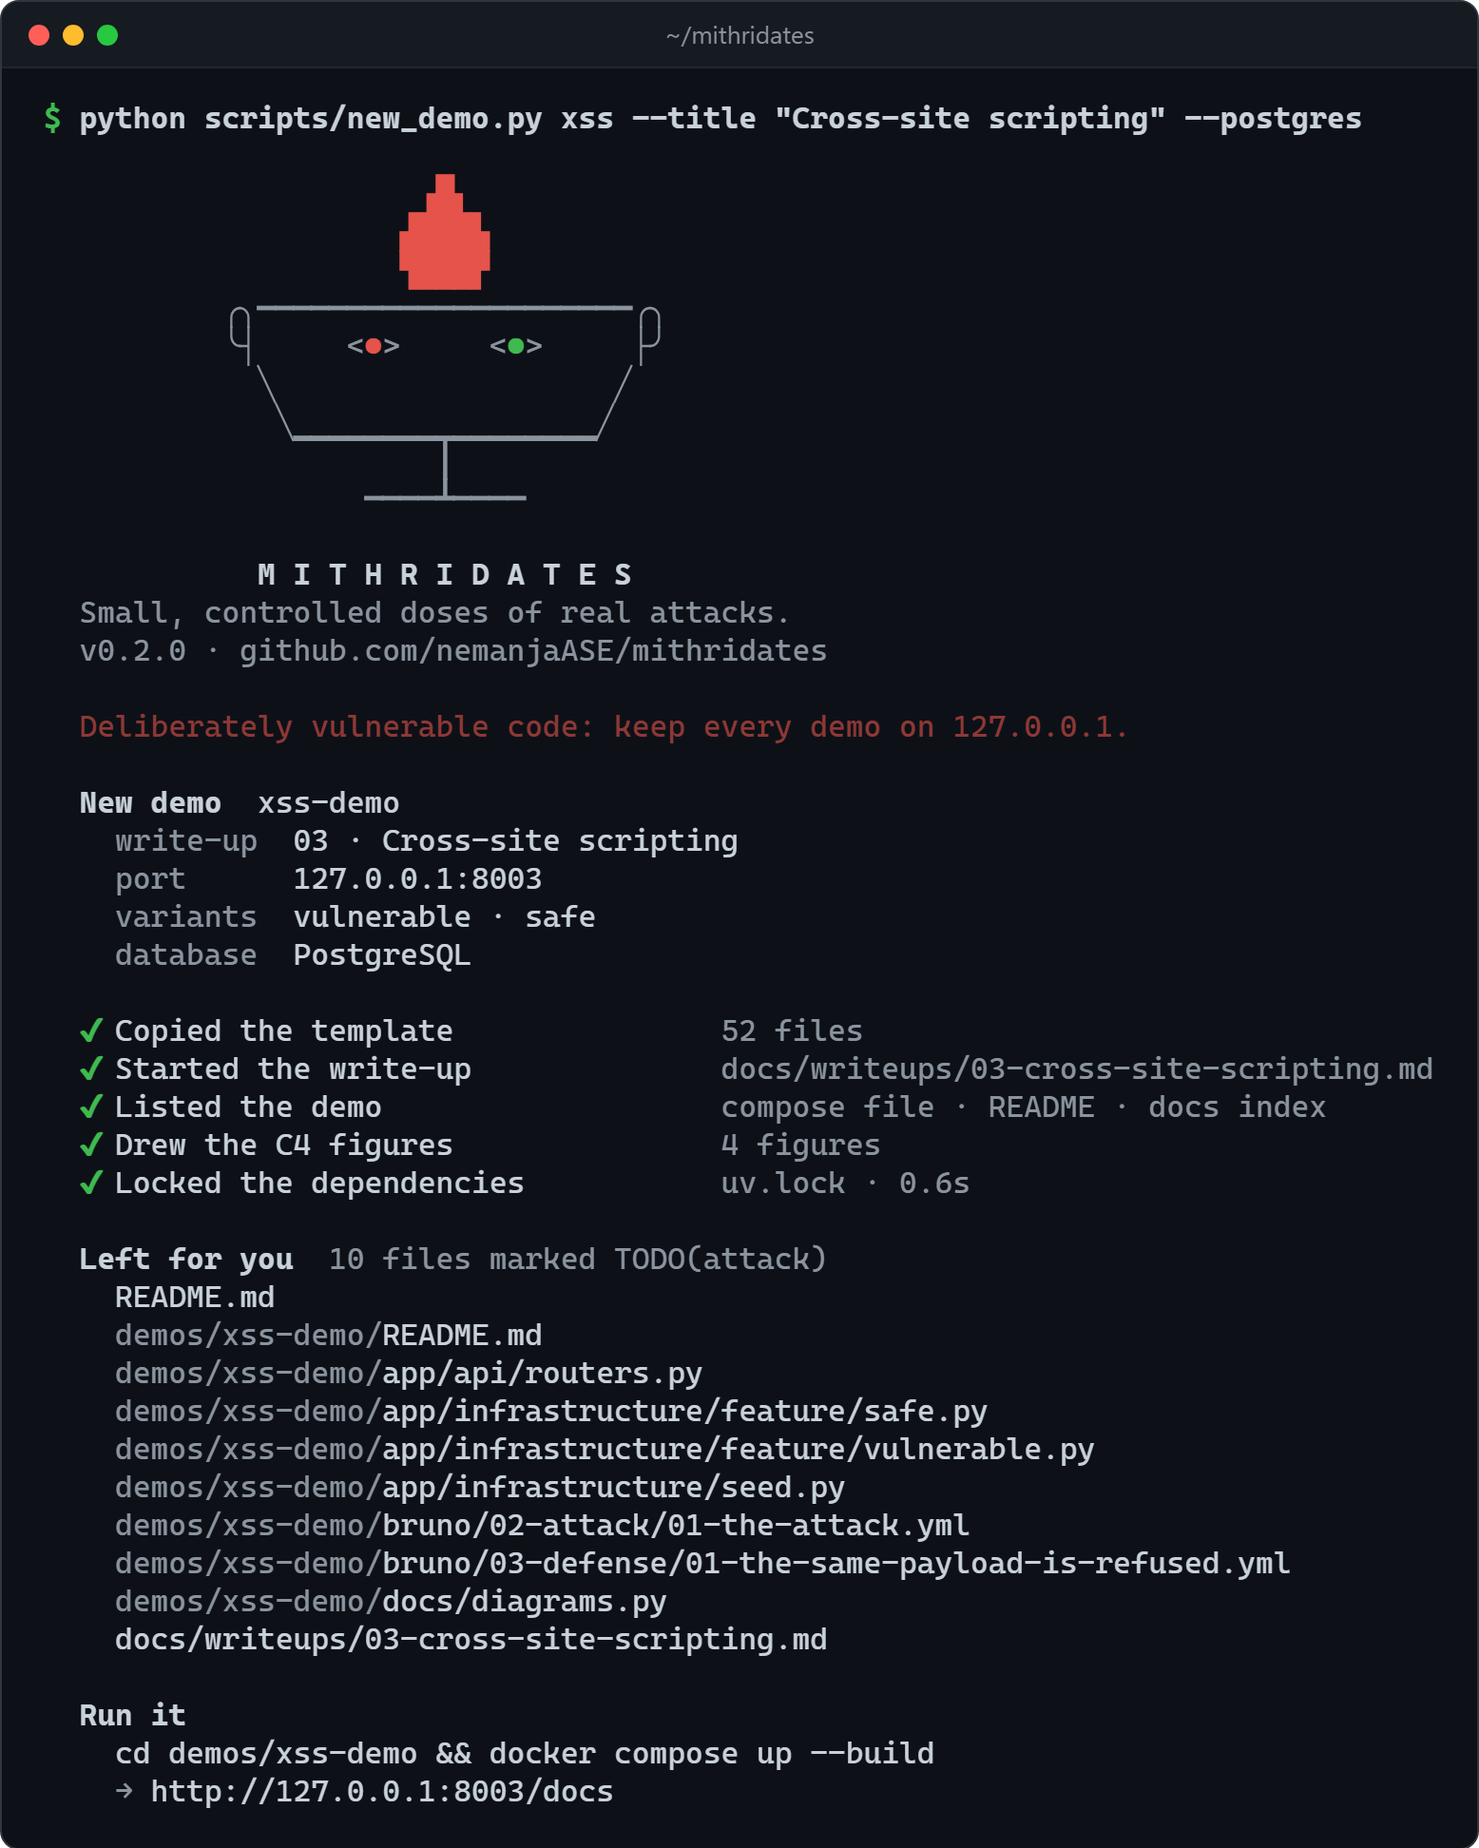
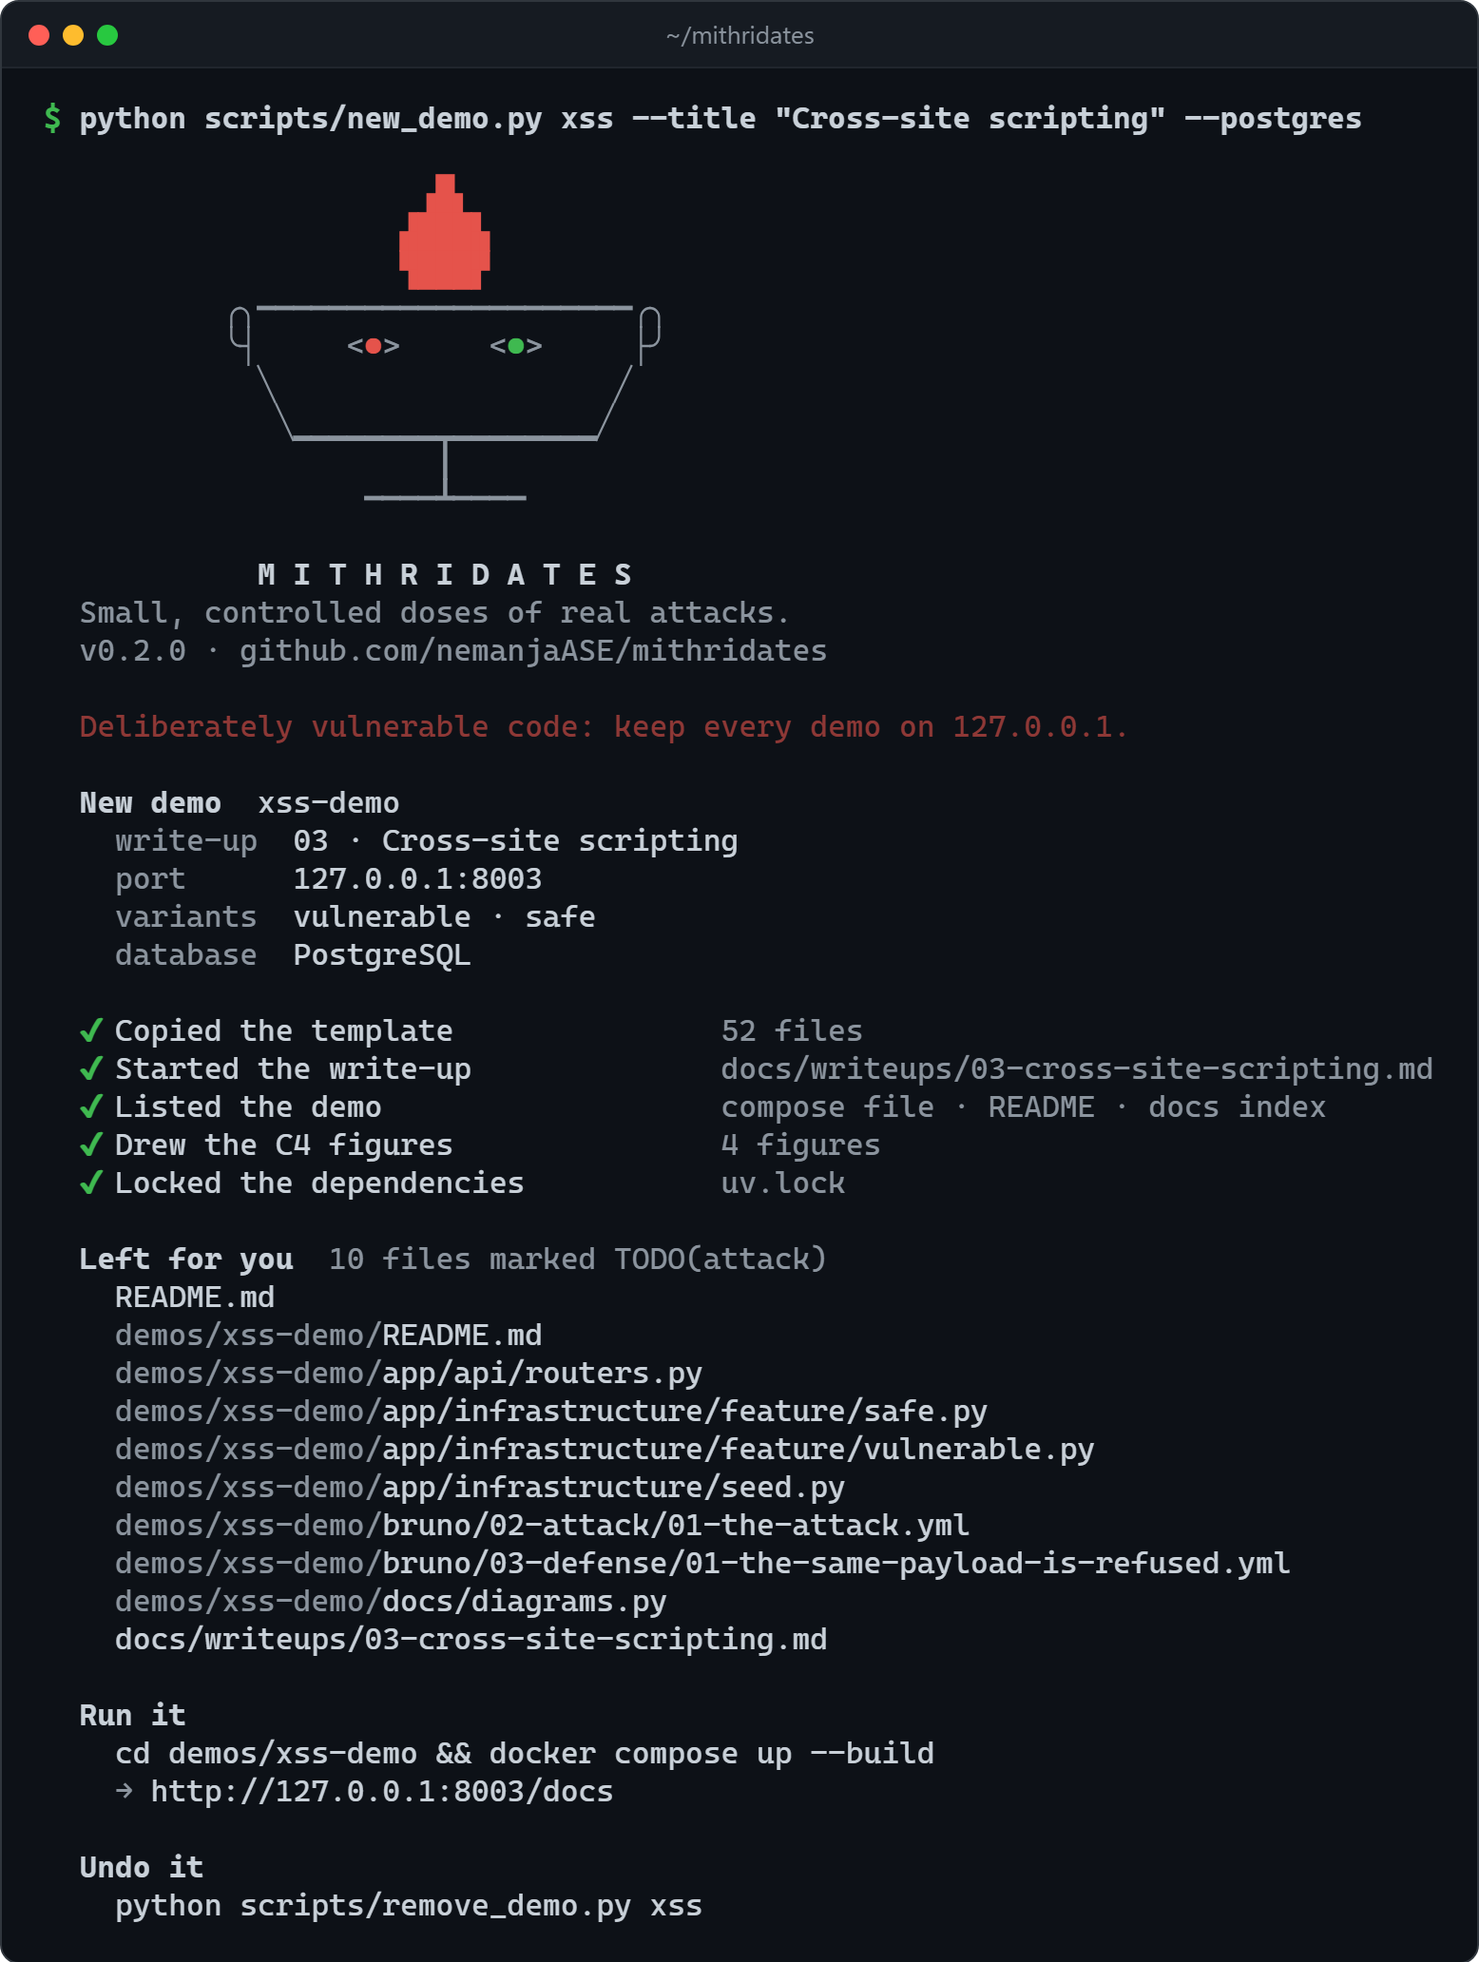
ci(scripts): add remove_demo.py to undo the demo generator
scripts/remove_demo.py <topic> is the inverse of new_demo.py: it deletes
the demo's folder and write-up and takes the demo out of
docker-compose.yml, README.md and docs/README.md, working out the
README's next-demo row and badge again with the generator's own
functions. It lists what it will remove and asks first; --yes skips the
question.

new_demo.py ends its output with the command that undoes it, and the
Demo generator job removes the demos it generated and fails unless the
checkout is left as it was.

diff --git a/scripts/remove_demo.py b/scripts/remove_demo.py
@@ -1,0 +1,193 @@
+"""Undo scripts/new_demo.py: remove a demo, its write-up and the rows that list it.
+
+    python scripts/remove_demo.py <topic> [--yes]
+
+Deletes `demos/<topic>-demo/` and the demo's write-up in `docs/writeups/`, and takes the
+demo out of `docker-compose.yml`, `README.md` and `docs/README.md`. The README's
+*your demo* row and demo badge are worked out again from the demos that are left, the way
+the generator works them out, so after a trial run every file is back as it was before
+`new_demo.py` ran.
+
+It lists what it will remove and asks first; `--yes` removes without asking. A file git
+has no committed copy of cannot be brought back, and the list says how many there are.
+
+Docker is not touched: if the demo was started, `python scripts/lab.py clean` stops it and
+removes its image once its folder is gone.
+"""
+from __future__ import annotations
+
+import argparse
+import re
+import shutil
+import sys
+from collections.abc import Callable
+from pathlib import Path
+
+from lab import git, plural
+from new_demo import ROOT, TOPIC, YOUR_DEMO_ROW, count_demos, next_number, next_port, your_demo_row
+from terminal import GREEN, YELLOW, Terminal
+
+COMPOSE = ROOT / "docker-compose.yml"
+README = ROOT / "README.md"
+INDEX = ROOT / "docs" / "README.md"
+WRITEUPS = ROOT / "docs" / "writeups"
+# The write-up as docs/README.md links it, and as the line the demo template's README links it on.
+INDEXED = re.compile(r"\(writeups/(\d\d-[a-z0-9-]+\.md)\)")
+STORY = re.compile(r"full story of the attack:.*?docs/writeups/(\d\d-[a-z0-9-]+\.md)")
+
+
+def rel(path: Path) -> str:
+    return path.relative_to(ROOT).as_posix()
+
+
+def listings(name: str) -> dict[Path, Callable[[str], bool]]:
+    """The files new_demo.py lists a demo in, each with a test for the line that lists it."""
+    return {
+        COMPOSE: lambda line: line.strip() == f"- demos/{name}/compose.yaml",
+        README: lambda line: line.startswith("| ") and f"](demos/{name}/README.md)" in line,
+        INDEX: lambda line: line.startswith("| [") and f"`demos/{name}/`" in line,
+    }
+
+
+def listed_in(name: str) -> list[Path]:
+    """The files that still list the demo."""
+    return [path for path, lists in listings(name).items()
+            if any(lists(line) for line in path.read_text(encoding="utf-8").splitlines())]
+
+
+def find_writeup(name: str) -> Path | None:
+    """The demo's write-up: the one its row in docs/README.md links, or else its README."""
+    rows = [line for line in INDEX.read_text(encoding="utf-8").splitlines()
+            if listings(name)[INDEX](line)]
+    readme = ROOT / "demos" / name / "README.md"
+    story = readme.read_text(encoding="utf-8") if readme.exists() else ""
+    names = [m.group(1) for row in rows for m in INDEXED.finditer(row)]
+    names += [m.group(1) for m in STORY.finditer(story)]
+    return next((WRITEUPS / n for n in names if (WRITEUPS / n).is_file()), None)
+
+
+def count_files(path: Path) -> tuple[int, int | None]:
+    """How many files `path` holds, and how many of them git has no committed copy of.
+
+    Files git ignores, such as a virtual environment, are not counted. Without git every
+    file is counted, and the second number is None.
+    """
+    tracked = git("ls-files", "--cached", "--others", "--exclude-standard", "--", rel(path))
+    changed = git("status", "--porcelain", "--untracked-files=all", "--", rel(path))
+    if tracked is None or changed is None:
+        files = [path] if path.is_file() else [p for p in path.rglob("*") if p.is_file()]
+        return len(files), None
+    return len(tracked.splitlines()), len(changed.splitlines())
+
+
+def unlist(name: str) -> list[Path]:
+    """Takes out the demo's rows, and works out the README's next-demo row and badge again.
+
+    Runs after the demo's folder and write-up are deleted, because the next number, the next
+    port and the demo count are read from what is left. Returns the files it changed.
+    """
+    changed = []
+    row = your_demo_row(next_number(), next_port())
+    for path, lists in listings(name).items():
+        text = path.read_text(encoding="utf-8")
+        kept = "".join(line for line in text.splitlines(keepends=True) if not lists(line))
+        if path == README:
+            kept = count_demos(YOUR_DEMO_ROW.sub(lambda _: row, kept, count=1))
+        if kept != text:
+            path.write_text(kept, encoding="utf-8", newline="\n")
+            changed.append(path)
+    return changed
+
+
+def delete(ui: Terminal, running: str, finished: str, path: Path) -> bool:
+    """Deletes a file or a folder as one step, and returns whether it is gone."""
+    shown = rel(path) + ("/" if path.is_dir() else "")
+    with ui.step(running, finished) as step:
+        try:
+            if path.is_dir():
+                shutil.rmtree(path)
+            else:
+                path.unlink()
+        except OSError as error:
+            step.fail(f"{error}\nClose whatever has a file open in it, then run this again.")
+            return False
+        step.done(shown)
+    return True
+
+
+def main() -> int:
+    parser = argparse.ArgumentParser(description=__doc__.splitlines()[0])
+    parser.add_argument("topic", help="the topic given to new_demo.py, e.g. xss; xss-demo works too")
+    parser.add_argument("--yes", action="store_true", help="remove without asking")
+    args = parser.parse_args()
+
+    topic = args.topic.removesuffix("-demo")
+    if not TOPIC.match(topic):
+        parser.error("the topic is lowercase letters, digits and dashes: e.g. xss")
+    name = f"{topic}-demo"
+    target = ROOT / "demos" / name
+    writeup = find_writeup(name)
+    lists = listed_in(name)
+    if not (target.exists() or writeup or lists):
+        parser.error(f"demos/{name} does not exist, and nothing lists it")
+
+    ui = Terminal()
+    dot = ui.glyph["dot"]
+    ui.banner(compact=True)
+    ui.line(f"  {ui.paint('Remove demo', bold=True)}  {name}")
+    rows: list[tuple[str, str]] = []
+    lost = 0
+    for key, path in (("folder", target), ("write-up", writeup)):
+        if path is None or not path.exists():
+            continue
+        files, uncommitted = count_files(path)
+        lost += uncommitted or 0
+        if path.is_dir():
+            shown, note = f"{rel(path)}/", plural(files, "file")
+            if uncommitted is not None:
+                note += ", " + ("all committed" if not uncommitted else
+                                "none committed" if uncommitted == files else
+                                f"{uncommitted} not committed")
+        else:
+            shown, note = rel(path), {None: "", 0: "committed"}.get(uncommitted, "not committed")
+        rows.append((key, f"{shown}  {ui.paint(note, dim=True)}" if note else shown))
+    if lists:
+        rows.append(("listed in", f" {dot} ".join(rel(p) for p in lists)))
+    for key, value in rows:
+        ui.line(f"    {ui.paint(f'{key:<10}', dim=True)}{value}")
+    ui.line()
+
+    if not args.yes:
+        if lost:
+            ui.line("  " + ui.paint(f"Git has no copy of {plural(lost, 'file')}, "
+                                    "so this cannot be undone.", YELLOW))
+        try:
+            answer = input("  Remove them? [y/N] ")
+        except EOFError:  # no one to answer, as in CI
+            answer = ""
+            ui.line()
+        ui.line()
+        if answer.strip().lower() not in ("y", "yes"):
+            ui.line(f"  Nothing removed. {ui.paint('--yes removes without asking.', dim=True)}")
+            ui.line()
+            return 1
+
+    if target.exists() and not delete(ui, "Deleting the demo", "Deleted the demo", target):
+        return 1
+    if writeup and writeup.exists() and not delete(ui, "Deleting the write-up",
+                                                   "Deleted the write-up", writeup):
+        return 1
+    with ui.step("Unlisting the demo", "Unlisted the demo") as step:
+        step.done(f" {dot} ".join(rel(p) for p in unlist(name)) or "nothing listed it")
+
+    ui.line()
+    ui.line(f"  {ui.paint(ui.glyph['ok'], GREEN, bold=True)} Removed {name}.")
+    command = ui.paint("python scripts/lab.py clean", bold=True)
+    ui.line(f"  {ui.paint(ui.glyph['arrow'], dim=True)} If you started it, {command} "
+            "stops it and removes its image.")
+    ui.line()
+    return 0
+
+
+if __name__ == "__main__":
+    sys.exit(main())

diff --git a/scripts/new_demo.py b/scripts/new_demo.py
@@ -12,6 +12,8 @@ removes the cause, `mitigated` when it only limits the damage.
 What is left is marked `TODO(attack)`: the vulnerable and the safe implementation, the
 payloads in `bruno/02-attack` and `bruno/03-defense`, and the text of the README and the
 write-up. `scripts/check_repo.py` fails while any marker is left.
+
+`python scripts/remove_demo.py <topic>` undoes all of it.
 """
 from __future__ import annotations
 
@@ -124,8 +126,23 @@ def start_writeup(path: Path, number: str, title: str) -> None:
     path.write_text(skeleton.replace("# NN — <Attack name>", heading, 1), encoding="utf-8", newline="\n")
 
 
+def your_demo_row(number: str, port: int) -> str:
+    """The README row that invites the next demo, with its number and port."""
+    return f"| {number} | *your demo* | `:{port}` | — | [Add one](CONTRIBUTING.md) |"
+
+
+def count_demos(text: str) -> str:
+    """Sets the README's demo badge to the number of folders under `demos/`."""
+    demos = len(list((ROOT / "demos").glob("*-demo")))
+    text = re.sub(r"badge/demos-\d+-", f"badge/demos-{demos}-", text)
+    return re.sub(r'alt="\d+ demos"', f'alt="{demos} demos"', text)
+
+
 def register(name: str, number: str, slug: str, title: str, port: int) -> None:
-    """Lists the demo in docker-compose.yml, README.md and docs/README.md."""
+    """Lists the demo in docker-compose.yml, README.md and docs/README.md.
+
+    `scripts/remove_demo.py` takes it out again: keep the two in step.
+    """
     compose = ROOT / "docker-compose.yml"
     lines = compose.read_text(encoding="utf-8").splitlines()
     last = max(i for i, line in enumerate(lines) if line.strip().startswith("- demos/"))
@@ -137,14 +154,11 @@ def register(name: str, number: str, slug: str, title: str, port: int) -> None:
     row = (f"| {number} | [**{name}**](demos/{name}/README.md) | `:{port}` "
            "| <!-- TODO(attack): the attack, in one line --> "
            "| <!-- TODO(attack): the fix or mitigation, in one line --> |")
-    following = f"| {int(number) + 1:02d} | *your demo* | `:{port + 1}` | — | [Add one](CONTRIBUTING.md) |"
+    following = your_demo_row(f"{int(number) + 1:02d}", port + 1)
     text, found = YOUR_DEMO_ROW.subn(row + "\n" + following, text, count=1)
     if not found:
         text = text.replace("\n\n> **Not every attack", "\n" + row + "\n\n> **Not every attack", 1)
-    demos = len(list((ROOT / "demos").glob("*-demo")))
-    text = re.sub(r"badge/demos-\d+-", f"badge/demos-{demos}-", text)
-    text = re.sub(r'alt="\d+ demos"', f'alt="{demos} demos"', text)
-    readme.write_text(text, encoding="utf-8", newline="\n")
+    readme.write_text(count_demos(text), encoding="utf-8", newline="\n")
 
     index = ROOT / "docs" / "README.md"
     lines = index.read_text(encoding="utf-8").splitlines()
@@ -239,6 +253,9 @@ def main() -> int:
     ui.line(f"  {ui.paint('Run it', bold=True)}")
     ui.line(f"    cd demos/{name} && docker compose up --build")
     ui.line(f"    {ui.paint(ui.glyph['arrow'], dim=True)} http://127.0.0.1:{port}/docs")
+    ui.line()
+    ui.line(f"  {ui.paint('Undo it', bold=True)}")
+    ui.line(f"    python scripts/remove_demo.py {args.topic}")
     ui.line()
     return 0
 

diff --git a/CONTRIBUTING.md b/CONTRIBUTING.md
@@ -106,13 +106,16 @@ python scripts/new_demo.py <topic> --title "<Attack name>"
 ```
 
 <p align="center">
-  <img src="docs/assets/terminal/new-demo.png" width="600" alt="python scripts/new_demo.py xss --title &quot;Cross-site scripting&quot; --postgres: the logo, the new demo's write-up number, port, variants and database, five completed steps, ten files marked TODO(attack), and how to run it">
+  <img src="docs/assets/terminal/new-demo.png" width="600" alt="python scripts/new_demo.py xss --title &quot;Cross-site scripting&quot; --postgres: the logo, the new demo's write-up number, port, variants and database, five completed steps, ten files marked TODO(attack), how to run it, and how to undo it">
 </p>
 <p align="center"><sub>An example run, for <code>xss</code> with <code>--postgres</code>.</sub></p>
 
 The new demo already builds, runs and passes the checks: what is left is the attack itself.
 `--postgres` adds a database, and `--mitigated` names the second variant for a defense that
 only limits the damage. [All the options](#the-generator-in-detail).
+
+To start over, or to drop the idea, `python scripts/remove_demo.py <topic>` undoes the
+generator.
 
 ### 4. Write the attack and the defense
 
@@ -396,8 +399,17 @@ What is left for you is marked `TODO(attack)`, in the files
   <img src="docs/assets/terminal/check-repo.png" width="760" alt="scripts/check_repo.py right after the generator: sqli-demo and promptinj-demo pass, xss-demo and the repository fail on the TODO(attack) markers still left">
 </p>
 
-After a trial run, `python scripts/lab.py clean` stops the demo and removes its image
-once its folder is gone.
+To undo the generator, after a trial run or to start again with other options:
+
+```bash
+python scripts/remove_demo.py <topic> [--yes]
+```
+
+It deletes the demo's folder and its write-up, and takes the demo out of the three files the
+generator listed it in, which are left as they were before. It shows what it will remove,
+and how many of those files git has no copy of, and asks first; `--yes` skips the question.
+Docker is not touched: if you started the demo, `python scripts/lab.py clean` then stops it
+and removes its image.
 
 The generator is a starting point, not a rule. A demo may change its structure, or leave
 Python altogether; [the contract](#the-contract) is what counts.
@@ -607,7 +619,7 @@ Every pull request runs [`ci.yml`](.github/workflows/ci.yml) and
 | **Lint** | `uv run ruff check .` in each demo. The list is read from the folder names, so a new demo is covered without editing the workflow |
 | **Build** | the compose files resolve, and every image builds |
 | **Bruno** | every demo starts, and its Bruno collection passes against it ([`bruno.yml`](.github/workflows/bruno.yml)). A demo marked `on-change` runs only when the pull request touches it; see [Verification](#verification) |
-| **Demo generator** | `scripts/new_demo.py` generates one demo of each kind, on Python 3.11, the oldest the scripts support; each must follow the contract, lint and build, and `check_repo.py` must catch the markers left in them |
+| **Demo generator** | `scripts/new_demo.py` generates one demo of each kind, on Python 3.11, the oldest the scripts support; each must follow the contract, lint and build, and `check_repo.py` must catch the markers left in them. `scripts/remove_demo.py` then removes both, and must leave the checkout as it was |
 | **Pull request format** | `scripts/check_pr.py`: the title is in the [expected form](#the-pull-request-title), `## What this changes` says what changes, and no checklist item is left unticked. It runs again when you edit the title or the description |
 
 Run them yourself before you push, all but the builds and the Bruno runs, with one command:

diff --git a/.github/repository-settings.md b/.github/repository-settings.md
@@ -23,7 +23,8 @@ the check guards a title nobody sees in `git log`.
         ([`pull-request.yml`](workflows/pull-request.yml))
   - [ ] `Conventions` — `scripts/check_repo.py`: the `127.0.0.1` binding, the container
         hardening, no secret defaults ([`ci.yml`](workflows/ci.yml))
-  - [ ] `Demo generator` — `scripts/new_demo.py` still produces a demo that passes
+  - [ ] `Demo generator` — `scripts/new_demo.py` still produces a demo that passes, and
+        `scripts/remove_demo.py` still undoes it
         ([`ci.yml`](workflows/ci.yml))
   - [ ] `Bruno` — every demo starts and its Bruno collection passes. One check for all
         demos, so a new demo needs nothing added here ([`bruno.yml`](workflows/bruno.yml))

diff --git a/AGENTS.md b/AGENTS.md
@@ -13,7 +13,7 @@ Instructions for AI coding agents working in this repository. People start with
 - Everything written into the repository is in English.
 - A new demo starts with `python scripts/new_demo.py <topic> --title "<Attack name>"`;
   what is left for the author is marked `TODO(attack)`, and `check_repo.py` fails until
-  every marker is gone.
+  every marker is gone. `python scripts/remove_demo.py <topic>` undoes the generator.
 
 ## Before you finish
 
